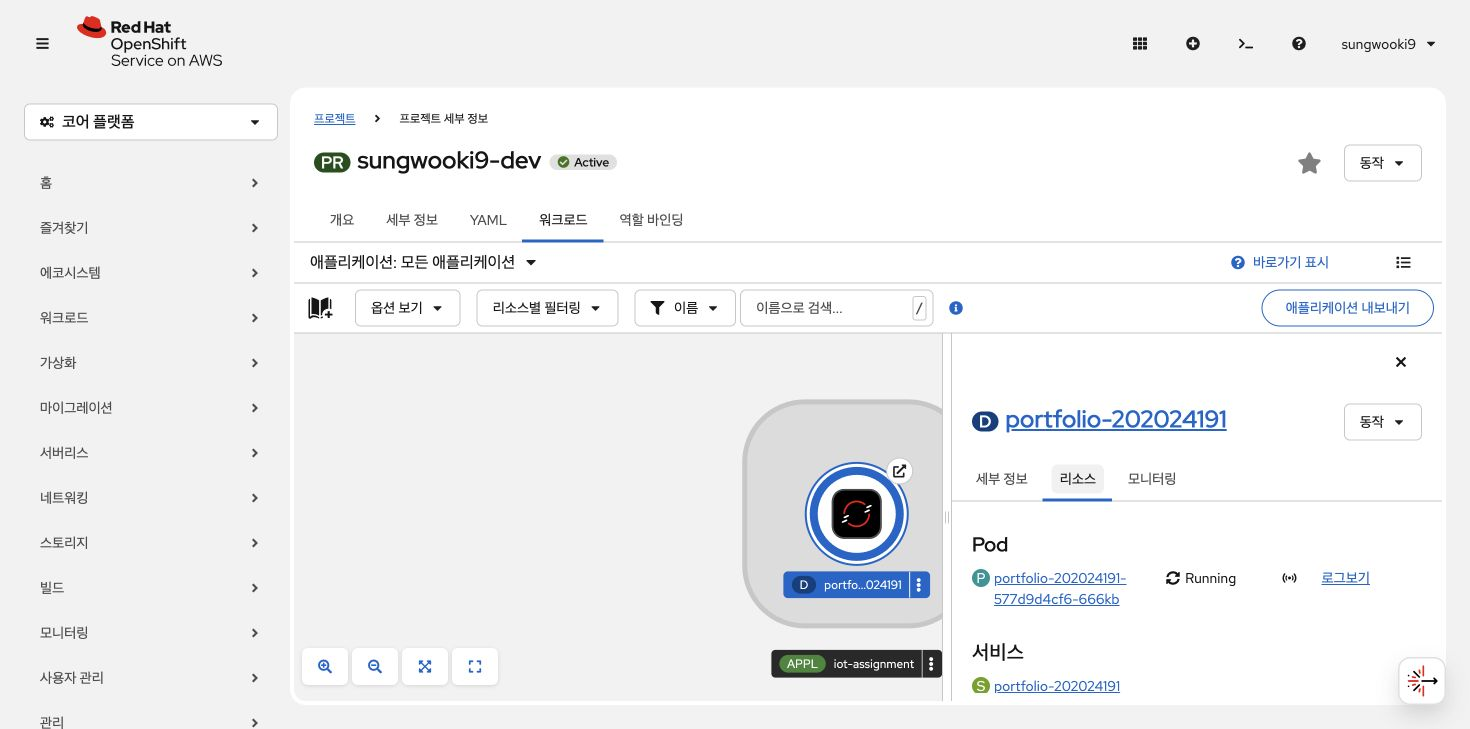
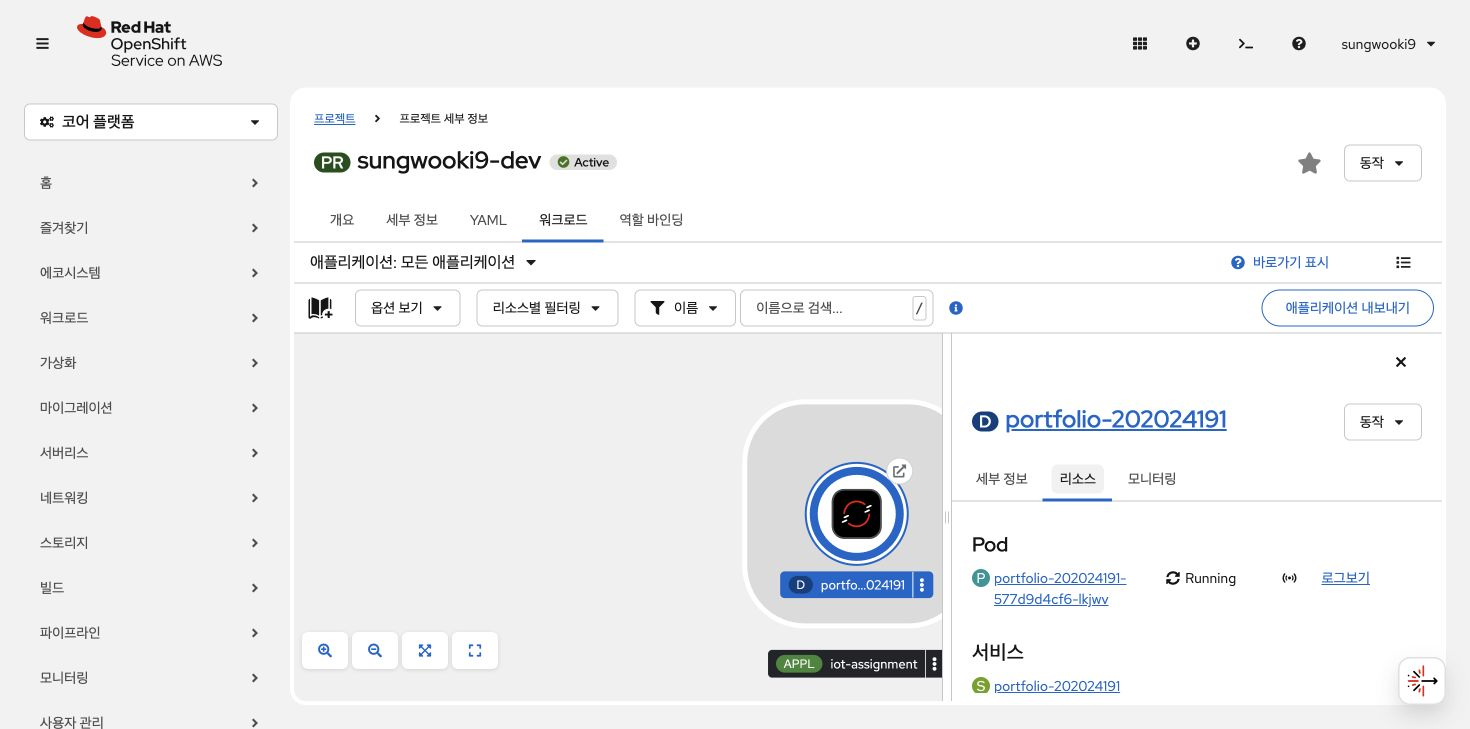
Document public-clone redeployment and final verification evidence

diff --git a/students/202024191/README.md b/students/202024191/README.md
@@ -164,7 +164,7 @@ oc get pods,svc,route,pvc -l app=portfolio-202024191
 
 | 평가 항목 | 배점 | 구현·검증 | 증빙 |
 |---|---:|---|---|
-| 배포 성공 | 40 | 실제 Sandbox Pod Ready, HTTPS 정상, 최종 Git YAML만으로 전체 재배포 | [검증 보고서](docs/VERIFICATION.md), [클러스터 상태](docs/cluster-status.txt), [재배포 기록](docs/redeploy-verification.json) |
+| 배포 성공 | 40 | 실제 Sandbox Pod Ready, HTTPS 정상, 최종 Git YAML만으로 전체 재배포 | [검증 보고서](docs/VERIFICATION.md), [클러스터 상태](docs/cluster-status.txt), [공개 clone 재배포](docs/public-clone-verification.json) |
 | 문서 | 25 | 서비스·선정 이유·구조·이미지·배포·결과·문제 해결·AI 활용 | 이 README, 아래 실제 화면 |
 | YAML 품질 | 20 | selector/포트 일치, 자원 제한, 이식 가능한 이름·설정, source 일치 검사 | [k8s/](k8s/), [YAML 해설](docs/YAML_GUIDE.md), [자동 테스트](tests/) |
 | 추가 구성 | 15 | ConfigMap 2개, Secret, PVC, startup/readiness/liveness Probe | [실서비스 24개 검증](docs/live-verification.json), [검증 보고서](docs/VERIFICATION.md) |
